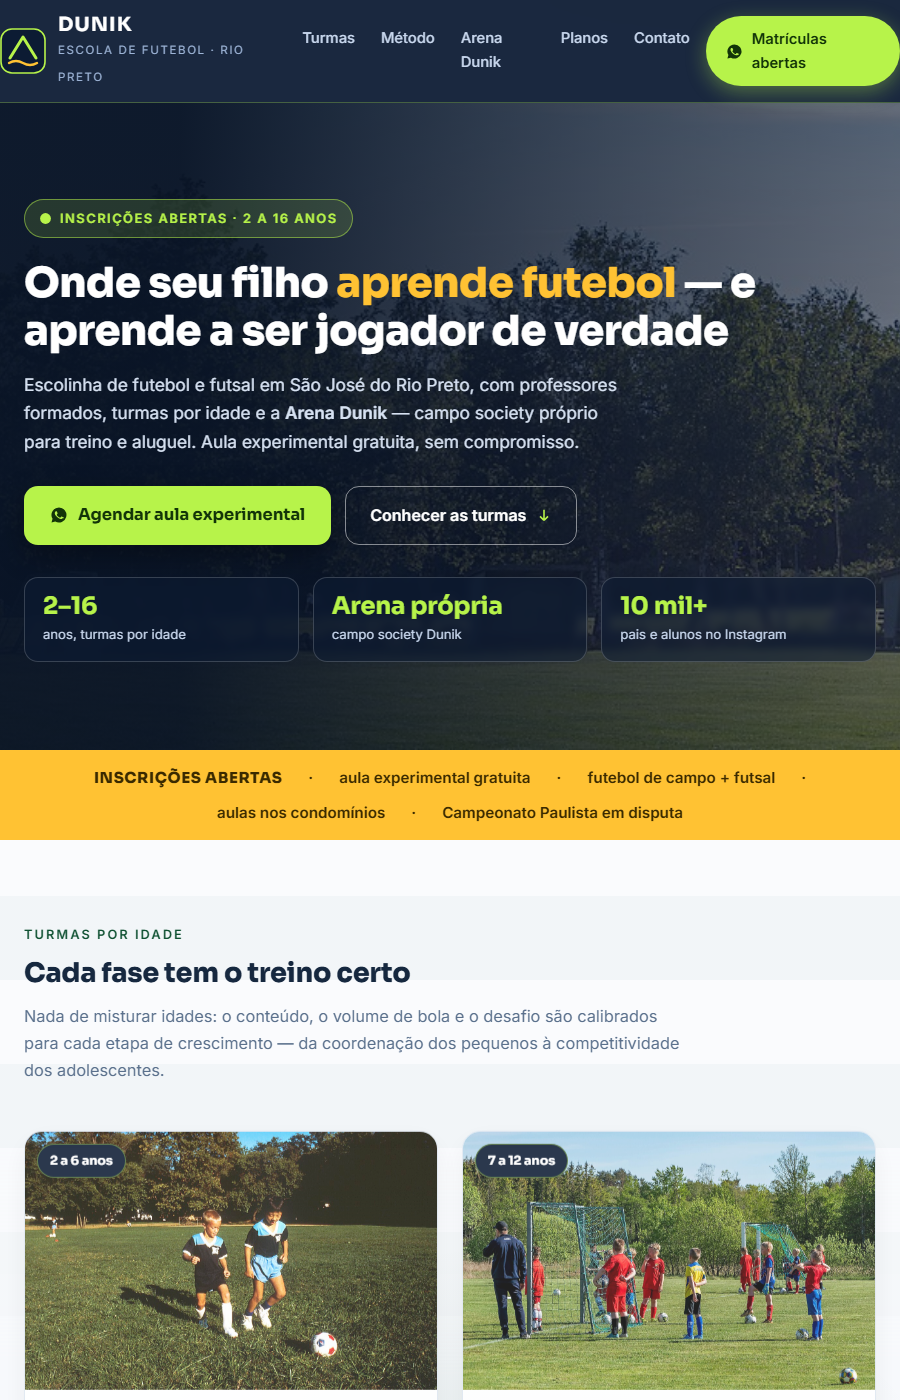
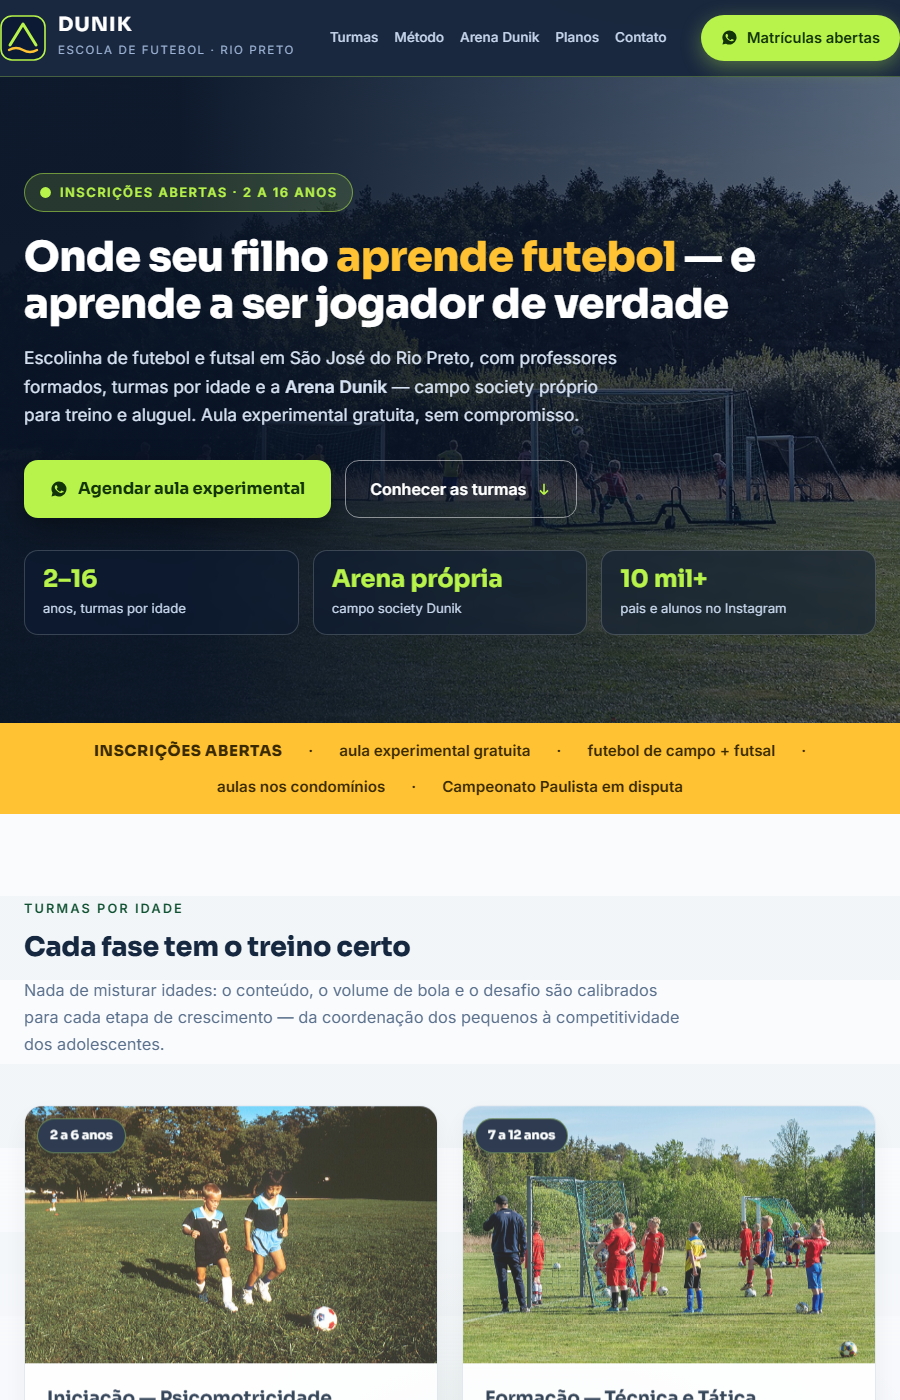
protos: publica dunik (gate R5: 9/10 )

diff --git a/p/dunik/index.html b/p/dunik/index.html
@@ -174,6 +174,8 @@ footer a{color:var(--lime)}
 [data-reveal].in{opacity:1;transform:none}
 /* responsive */
 @media (max-width:980px){
+ nav{gap:16px;font-size:.85rem}
+ .brand small{white-space:nowrap}
  .grid3,.cond,.planos{grid-template-columns:1fr 1fr}
  .pgrid,.stats{grid-template-columns:1fr 1fr}
  .arena-grid,.part .in{grid-template-columns:1fr}
@@ -220,7 +222,7 @@ footer a{color:var(--lime)}
 </header>
 
 <div class="hero" id="top">
- <div class="art"><img src="https://thumb.wikimedia.org/wikipedia/commons/thumb/b/b3/Kids%27_soccer_practice_at_Brastad_Arena_-_panorama.jpg/1280px-Kids%27_soccer_practice_at_Brastad_Arena_-_panorama.jpg" alt="Crianças treinando futebol em campo ao ar livre — imagem ilustrativa de banco de imagens (CC Wikimedia)" fetchpriority="high"></div>
+ <div class="art"><img src="https://thumb.wikimedia.org/wikipedia/commons/thumb/8/86/Kids%27_soccer_practice_at_Brastad_Arena_1.jpg/1280px-Kids%27_soccer_practice_at_Brastad_Arena_1.jpg" alt="Crianças com a bola em treino de futebol no campo — imagem ilustrativa de banco de imagens (CC Wikimedia)" fetchpriority="high"></div>
  <div class="wrap">
   <div>
    <span class="tag"><svg width="13" height="13" viewBox="0 0 24 24" fill="#b7f34a"><circle cx="12" cy="12" r="10"/></svg> Inscrições abertas · 2 a 16 anos</span>
@@ -400,7 +402,7 @@ footer a{color:var(--lime)}
 <section style="padding-top:10px">
  <div class="wrap">
   <div class="part">
-   <img class="bgp" src="https://thumb.wikimedia.org/wikipedia/commons/thumb/2/27/FA_Cup_Trophy_at_Manchester_National_Football_Museum_%28Ank_Kumar%29_01.jpg/1280px-FA_Cup_Trophy_at_Manchester_National_Football_Museum_%28Ank_Kumar%29_01.jpg" alt="Troféu de futebol — imagem ilustrativa de banco de imagens (CC Wikimedia)" loading="lazy">
+   <img class="bgp" src="https://thumb.wikimedia.org/wikipedia/commons/thumb/a/a9/SAIS_kids%27_soccer_practice_2.jpg/1280px-SAIS_kids%27_soccer_practice_2.jpg" alt="Crianças em treino com professor — imagem ilustrativa de banco de imagens (CC Wikimedia)" loading="lazy" style="object-position:center 30%">
    <div class="in">
     <div>
      <p class="kicker" style="color:var(--lime)">Comece agora</p>
